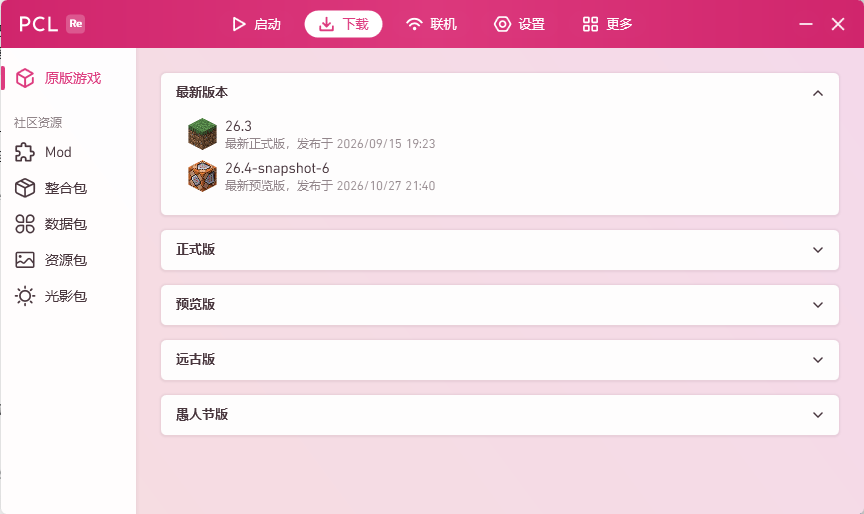
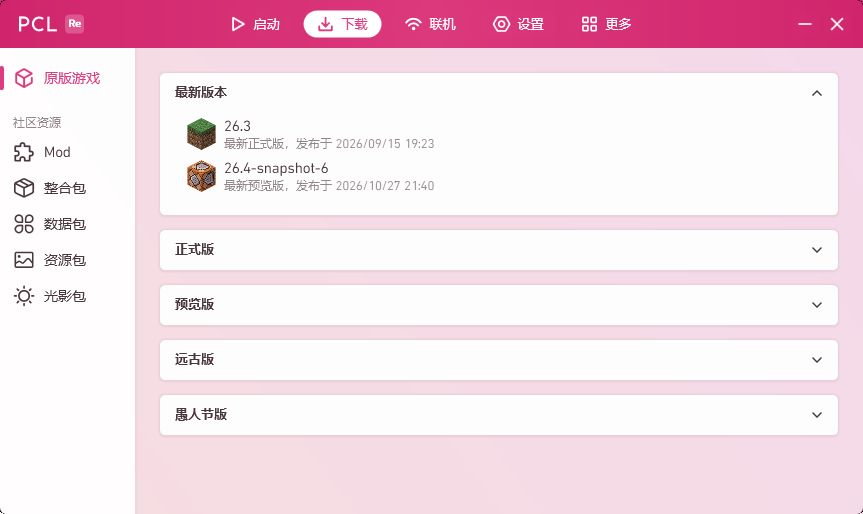
fix: remove desktop remnants from launcher captures

diff --git a/index.html b/index.html
@@ -66,7 +66,7 @@
             <div class="preview-topline"><span><span class="status-dot"></span> 熟悉的简洁，全新的出发</span><span class="mono">PCL RE / 01</span></div>
             <div class="preview-stage">
               <span class="stage-plus plus-one" aria-hidden="true">+</span><span class="stage-plus plus-two" aria-hidden="true">+</span>
-              <div class="screenshot-shell" id="launcher-preview" role="tabpanel" aria-labelledby="preview-tab-home"><img id="preview-image" src="./assets/pcl-launch-home.png" width="864" height="514" fetchpriority="high" alt="PCL Re 启动主页：玩家名已遮挡，展示启动游戏、当前游戏版本、公告和版本设置" /></div>
+              <div class="screenshot-shell" id="launcher-preview" role="tabpanel" aria-labelledby="preview-tab-home"><img id="preview-image" src="./assets/pcl-launch-home.png" width="863" height="514" fetchpriority="high" alt="PCL Re 启动主页：玩家名已遮挡，展示启动游戏、当前游戏版本、公告和版本设置" /></div>
               <span class="preview-caption" id="preview-caption" aria-live="polite">每一场冒险，从一次启动开始。</span>
               <span class="preview-watermark mono" aria-hidden="true">READY TO PLAY.</span>
             </div>
@@ -89,7 +89,7 @@
       <section class="multiplayer container section" id="multiplayer" aria-labelledby="multiplayer-title">
         <div class="multiplayer-panel">
           <div class="multiplayer-copy"><p class="section-kicker"><span>02 /</span> BETTER WITH FRIENDS</p><h2 id="multiplayer-title">好玩的世界，<br /><span>当然要一起。</span></h2><p>从一个人的生存，到一群人的冒险。<br />PCL Re 内置联机入口，用邀请码把朋友带进来。</p><ol class="online-steps"><li><span>01</span><div><strong>创建房间</strong><p>进入「联机」，由房主创建联机房间。</p></div></li><li><span>02</span><div><strong>分享邀请码</strong><p>把房间的邀请码发送给一起玩的朋友。</p></div></li><li><span>03</span><div><strong>加入，一起玩</strong><p>好友输入邀请码加入，开启共同的冒险。</p></div></li></ol><p class="online-note">创建联机房间时，需要以管理员身份运行启动器。</p></div>
-          <div class="multiplayer-visual"><div class="online-image-heading"><span class="live-badge"><span class="status-dot"></span> ADVENTURE, TOGETHER</span><svg class="icon" aria-hidden="true"><use href="#i-users" /></svg></div><div class="online-image-shell"><img src="./assets/pcl-launch-online.png" alt="PCL Re 联机页面，包含创建联机房间和输入邀请码加入房间的入口" width="864" height="514" loading="lazy" /></div><div class="online-quote"><span class="quote-mark" aria-hidden="true">“</span><p>同一个世界，<br />多几份快乐。</p><span class="quote-cubes" aria-hidden="true"><svg class="icon"><use href="#i-cube" /></svg><svg class="icon"><use href="#i-cube" /></svg></span></div></div>
+          <div class="multiplayer-visual"><div class="online-image-heading"><span class="live-badge"><span class="status-dot"></span> ADVENTURE, TOGETHER</span><svg class="icon" aria-hidden="true"><use href="#i-users" /></svg></div><div class="online-image-shell"><img src="./assets/pcl-launch-online.png" alt="PCL Re 联机页面，包含创建联机房间和输入邀请码加入房间的入口" width="863" height="514" loading="lazy" /></div><div class="online-quote"><span class="quote-mark" aria-hidden="true">“</span><p>同一个世界，<br />多几份快乐。</p><span class="quote-cubes" aria-hidden="true"><svg class="icon"><use href="#i-cube" /></svg><svg class="icon"><use href="#i-cube" /></svg></span></div></div>
         </div>
       </section>
 

diff --git a/styles.css b/styles.css
@@ -79,7 +79,7 @@ h1 > span { color: #6b9fd6; }
 .plus-one { top: 8px; left: 10px; }
 .plus-two { right: 10px; bottom: 9px; font-size: 13px; }
 .screenshot-shell { overflow: hidden; border: 1px solid rgb(255 255 255 / 90%); border-radius: 8px; box-shadow: 0 17px 35px -18px #306bb070, 0 2px 7px #2460a012; }
-.screenshot-shell img { width: 100%; aspect-ratio: 864 / 514; object-fit: cover; object-position: top left; }
+.screenshot-shell img { width: 100%; aspect-ratio: 863 / 514; object-fit: cover; object-position: top left; }
 .preview-caption { position: absolute; left: 22px; bottom: 15px; font-size: 10px; letter-spacing: .3px; color: #7692af; }
 .preview-watermark { position: absolute; right: 21px; bottom: 16px; font-size: 7px; color: #9aafc5; letter-spacing: 1.2px; }
 .preview-bottomline { margin-top: 15px; display: flex; justify-content: space-between; align-items: center; gap: 15px; }
@@ -160,7 +160,7 @@ a.card-bottom:hover { color: var(--blue); }
 .live-badge > .status-dot { width: 5px; height: 5px; }
 .online-image-heading > .icon { color: #99b6d5; width: 18px; height: 18px; }
 .online-image-shell { overflow: hidden; border: 1px solid #fff; border-radius: 8px; box-shadow: 0 15px 30px -18px #3169ab55; transform: rotate(1deg); }
-.online-image-shell img { width: 100%; aspect-ratio: 864 / 514; object-fit: cover; object-position: top left; }
+.online-image-shell img { width: 100%; aspect-ratio: 863 / 514; object-fit: cover; object-position: top left; }
 .online-quote { display: flex; align-items: center; position: relative; gap: 15px; margin-top: 24px; padding: 2px 8px 0; }
 .quote-mark { font-family: Georgia, serif; font-size: 66px; line-height: .8; color: #b5d1ef; align-self: flex-start; }
 .online-quote > p { font-size: 15px; line-height: 1.7; color: #7f9cbc; letter-spacing: 1px; }
